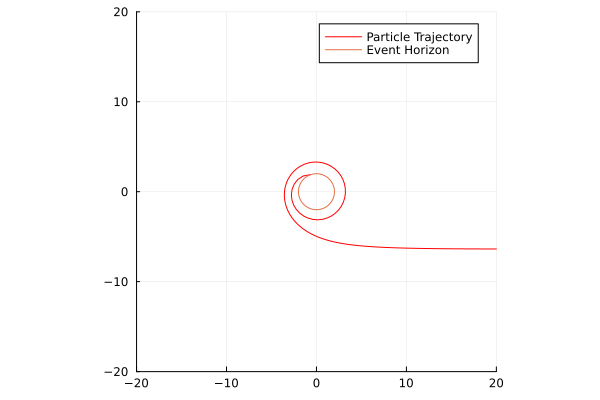
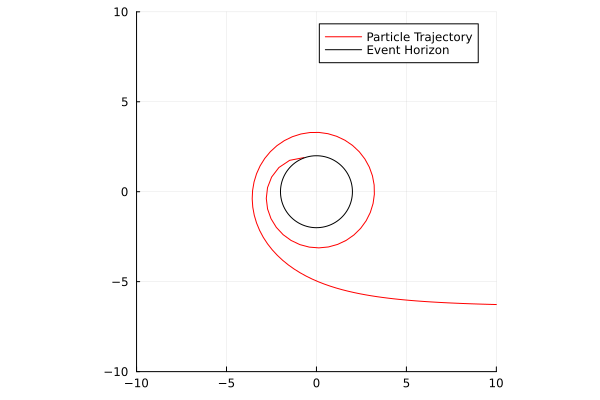
Changed index, and prograde orbits

diff --git a/docs/src/schwarzschild.md b/docs/src/schwarzschild.md
@@ -46,7 +46,7 @@ $$\begin{aligned}
 
 ## Special radii
 
-The ISCO of a Schwarzschild black hole is at $6r_s or 6M$. Matter inside this radius will spiral into the event horizon as shown here:
+The ISCO of a Schwarzschild black hole is at $6r_s$ or $6M$. Matter inside this radius will spiral into the event horizon as shown here:
 
 
 ```@raw html
@@ -103,38 +103,6 @@ plot_horizon!(m, label = "Event Horizon")
 
 
 
-As these black holes do not spin, the photon orbit and the ISCO will have a constant radius.
-
-```@raw html
-<details>
-<summary>Click to expand / collapse code block.</summary>
-```
-
-```julia
-using Gradus, Plots
-
-m = KerrMetric(M=1.5, a=0.0)
-# observer position
-x = SVector(0.0, 10000.0, π/2, 0.0)
-
-# set up impact parameter space
-α = collect(range(-7.794, 7.794, 2))
-β = fill(0, size(α))
-
-# build initial velocity and position vectors
-vs = map_impact_parameters(m, x, α, β)
-xs = fill(x, size(vs))
-
-sols = tracegeodesics(m, xs, vs, 20000.0)
-
-fig5 = plot_paths(sols, legend = true, n_points = 2048, label = "Photon Trajectory")
-plot_horizon!(m, lw = 2.0, color = :black, label = "Event Horizon")
-```
-```@raw html
-</details>
-```
-
-![Overlapping Orbits](figures/overlapping_orbits.png)
 
 
 
@@ -142,6 +110,9 @@ plot_horizon!(m, lw = 2.0, color = :black, label = "Event Horizon")
 
 
 
+
+
+### Stable Orbit and Pertubation
 
 
 The plot below shows two orbits. One is at $7M$ and one is pertubated slightly so appears at $6.99M$. Both of these orbits have equal velocity and both are circular. This shows that a slight pertubation to a stable orbit, (one that is outside the ISCO $(6M)$), will not cause it to spiral into the black hole.
@@ -159,7 +130,7 @@ using Gradus, Plots
 #Stable and Perturbed Stable orbits
 
 # Schwarzschild black hole
-m = KerrMetric(M=1.0, a=0.0)   #Kerr with a=0 is the same as a Schwarzschild
+m = KerrMetric(M=1.0, a=0.0)
 λ_max = 2000
 
 # Radii
@@ -183,18 +154,18 @@ sol_stable2  = tracegeodesics(m, x_stable2, v_stable2, λ_max, μ=1.0)
 p = plot(aspect_ratio=1)
 
 plot_paths!(p, sol_stable,   label="Stable (r=7M)", color=:blue)
-plot_paths!(p, sol_stable2,  label="Stable (r=6.99M)", color=:green)
+plot_paths!(p, sol_stable2,  label="Stable Perturbation (r=6.99M)", color=:green)
 plot_horizon!(m, lw=2, color=:black, label="Event Horizon")
 
 xlabel!("x")
 ylabel!("y")
-title!("Stable orbit and perturbation")
 
 
 xlims!(-10, 10)
 ylims!(-10, 10)  # Set limits to better visualize the orbits and horizon
 
 plot!(p, legend=:outertopright)  # Adjust legend position to avoid overlap with trajectories
+
 ```
 ```@raw html
 </details>
@@ -210,7 +181,7 @@ plot!(p, legend=:outertopright)  # Adjust legend position to avoid overlap with 
 
 
 
-
+### Unstable Orbit and Pertubation
 
 
 
@@ -257,15 +228,11 @@ plot_horizon!(m, lw=2, color=:black, label="Event Horizon")
 xlims!(-10, 10)
 ylims!(-10, 10)
 
-xlims!(-10, 10)
-ylims!(-10, 10)
-
 plot!(p, legend=:outertopright)
 
 
 xlabel!("x")
 ylabel!("y")
-title!("Unstable orbit and perturbation")
 ```
 
 ```@raw html
@@ -281,14 +248,10 @@ title!("Unstable orbit and perturbation")
 
 
 
+### No Frame Dragging Effect
 
+As Schwarzschild black holes do not spin, the photon orbit and the ISCO will have a constant radius as there is no concept of prograde or retrograde motion. The figure below demonstrates this by showing two photon orbits going round the black hole, clockwise and anti-clockwise at the same radius.
 
-
-
-
-## Particle orbits
-
-Outside the Innermost Stable Circular Orbit (ISCO) particles can follow circular orbits.
 
 ```@raw html
 <details>
@@ -298,20 +261,26 @@ Outside the Innermost Stable Circular Orbit (ISCO) particles can follow circular
 ```julia
 using Gradus, Plots
 
-m = KerrMetric(M=1.0, a=0.0)
+m = KerrMetric(M=1.5, a=0.0)
+# observer position
+x = SVector(0.0, 10000.0, π/2, 0.0)
 
-p = plot(aspect_ratio=1)
+# set up impact parameter space
+α = collect(range(-7.794, 7.794, 2))
+β = fill(0, size(α))
 
-for r in [6.0, 7.0]
-    v = CircularOrbits.fourvelocity(m, r)
-    # trace the circular orbit
-    path = tracegeodesics(m, @SVector([0.0, r, π/2, 0.0]), v, (0.0, 300.0), μ = 1.0)
-    plot_paths!(p, path, extent = 10, legend = false)
-    plot_horizon!(m, lw = 2.0, color = :black)
-end
+# build initial velocity and position vectors
+vs = map_impact_parameters(m, x, α, β)
+xs = fill(x, size(vs))
+
+sols = tracegeodesics(m, xs, vs, 20000.0)
+
+fig5 = plot_paths(sols, legend = true, n_points = 2048, label = "Photon Trajectory")
+plot_horizon!(m, lw = 2.0, color = :black, label = "Event Horizon")
 ```
 ```@raw html
 </details>
 ```
 
-![Schwarzschild circular orbits](figures/schwarzschild_circular_orbits.png)
+![Overlapping Orbits](figures/overlapping_orbits.png)
+

diff --git a/docs/src/kerr.md b/docs/src/kerr.md
@@ -82,7 +82,18 @@ $$\begin{aligned}
 
 ## Special radii
 
-The act of rotating introduces the phenomena known as frame dragging. Frame dragging is where spacetime itself is dragged inthe direction of the bodies rotation. This means that key radii around a spinning black hole will vary depending on the angular momentum.
+### Frame Dragging
+
+In the case of a spinning black hole, rotation leads to the dragging of spacetime
+in the direction of the spin, an effect known as frame dragging. It is because
+of frame dragging that different radii are observed for these orbits. A clear
+example is provided by the two distinct photon orbit radii in the Kerr spacetime. Photons may orbit in the same direction as the black hole’s rotation
+(prograde) or in the opposite direction (retrograde). Frame dragging effectively
+boosts prograde motion, allowing the prograde orbit to lie closer to the event
+horizon, while the retrograde orbit occurs at a larger radius as it opposes the
+frame dragging. The effect that frame dragging has on the photon orbit and
+the ISCO will increase with the angular momentum of the black hole.
+
 
 ```@raw html
 <details>
@@ -141,9 +152,19 @@ fig
 ![Kerr key radii](figures/kerr_special_radii.png)
 
 
-A spinning black hole can have two possible photon orbits and ISCOs. One in the direction of the spinning black hole (prograde) and one against it (retrograde).
 
-In the case of the photon orbit:
+
+
+
+
+
+
+
+
+### Prograde and Retrograde Orbits
+
+
+A spinning black hole can have two possible photon orbits and ISCOs. One in the direction of the spinning black hole (prograde) and one against it (retrograde).
 
 ```@raw html
 <details>
@@ -153,22 +174,41 @@ In the case of the photon orbit:
 ```julia Photon_Orbits
 using Gradus, Plots
 
-m = KerrMetric(M=1.5, a=1.0)
-# observer position
-x = SVector(0.0, 10000.0, π/2, 0.0)
+#Prograde and retrograde photon orbits
 
-# set up impact parameter space
-α = collect(range(-5.4808, 9.6466, 2))
-β = fill(0, size(α))
 
-# build initial velocity and position vectors
-vs = map_impact_parameters(m, x, α, β)
-xs = fill(x, size(vs))
+# Kerr black hole
+m = KerrMetric(M=1.0, a=0.8)
+λ_max = 2000
 
-sols = tracegeodesics(m, xs, vs, 20000.0)
+# Radii
+r_pro   = 1.81109
+r_retro = 3.81877   #radii that give circular orbits
 
-fig2 = plot_paths(sols, legend = true, n_points = 2048, label = "Photon Trajectory")
-plot_horizon!(m, lw = 2.0, color = :black, label = "Event Horizon")
+# Circular geodesic velocities
+v_pro = CircularOrbits.fourvelocity(m, r_pro; contra_rotating=false)
+v_retro = CircularOrbits.fourvelocity(m, r_retro; contra_rotating=true)
+
+# Initial positions
+x_pro    = @SVector [0.0, r_pro, π/2, 0.0]
+x_retro = @SVector [0.0, r_retro, π/2, 0.0]
+
+# Trace geodesics
+sol_pro = tracegeodesics(m, x_pro, v_pro, λ_max, μ=0.0)   #μ=0.0 is null geodesic (photon)
+sol_retro = tracegeodesics(m, x_retro, v_retro, λ_max, μ=0.0)
+# Plotting
+p = plot(aspect_ratio=1)
+
+plot_paths!(p, sol_retro, label="Retrograde", color=:orange, n_points = 100000)
+plot_paths!(p, sol_pro, label="Prograde", color=:blue, n_points = 100000)
+plot_horizon!(m, lw=2, color=:black, label="Event Horizon")
+
+xlims!(-10, 10)
+ylims!(-10, 10)
+
+
+xlabel!("x")
+ylabel!("y")
 ```
 ```@raw html
 </details>

diff --git a/docs/src/index.md b/docs/src/index.md
@@ -12,7 +12,7 @@ This is the documentation for the Catalogue of SpaceTimes (COST) Julia package. 
 
 
 ## Units
-In this catalogue we use $G=c=1$. This means that one gravitatinal radius $r_g = \dfrac{GM}{c^2} = M$.
+In this catalogue we use $G=c=1$. This means that one gravitatinal radius $r_g = \dfrac{GM}{c^2} = M$. Spin is measured with the parameter $a=\dfrac{J}{Mc}=\dfrac{J}{M}$.
 
 ## Orbits around a black hole
 
